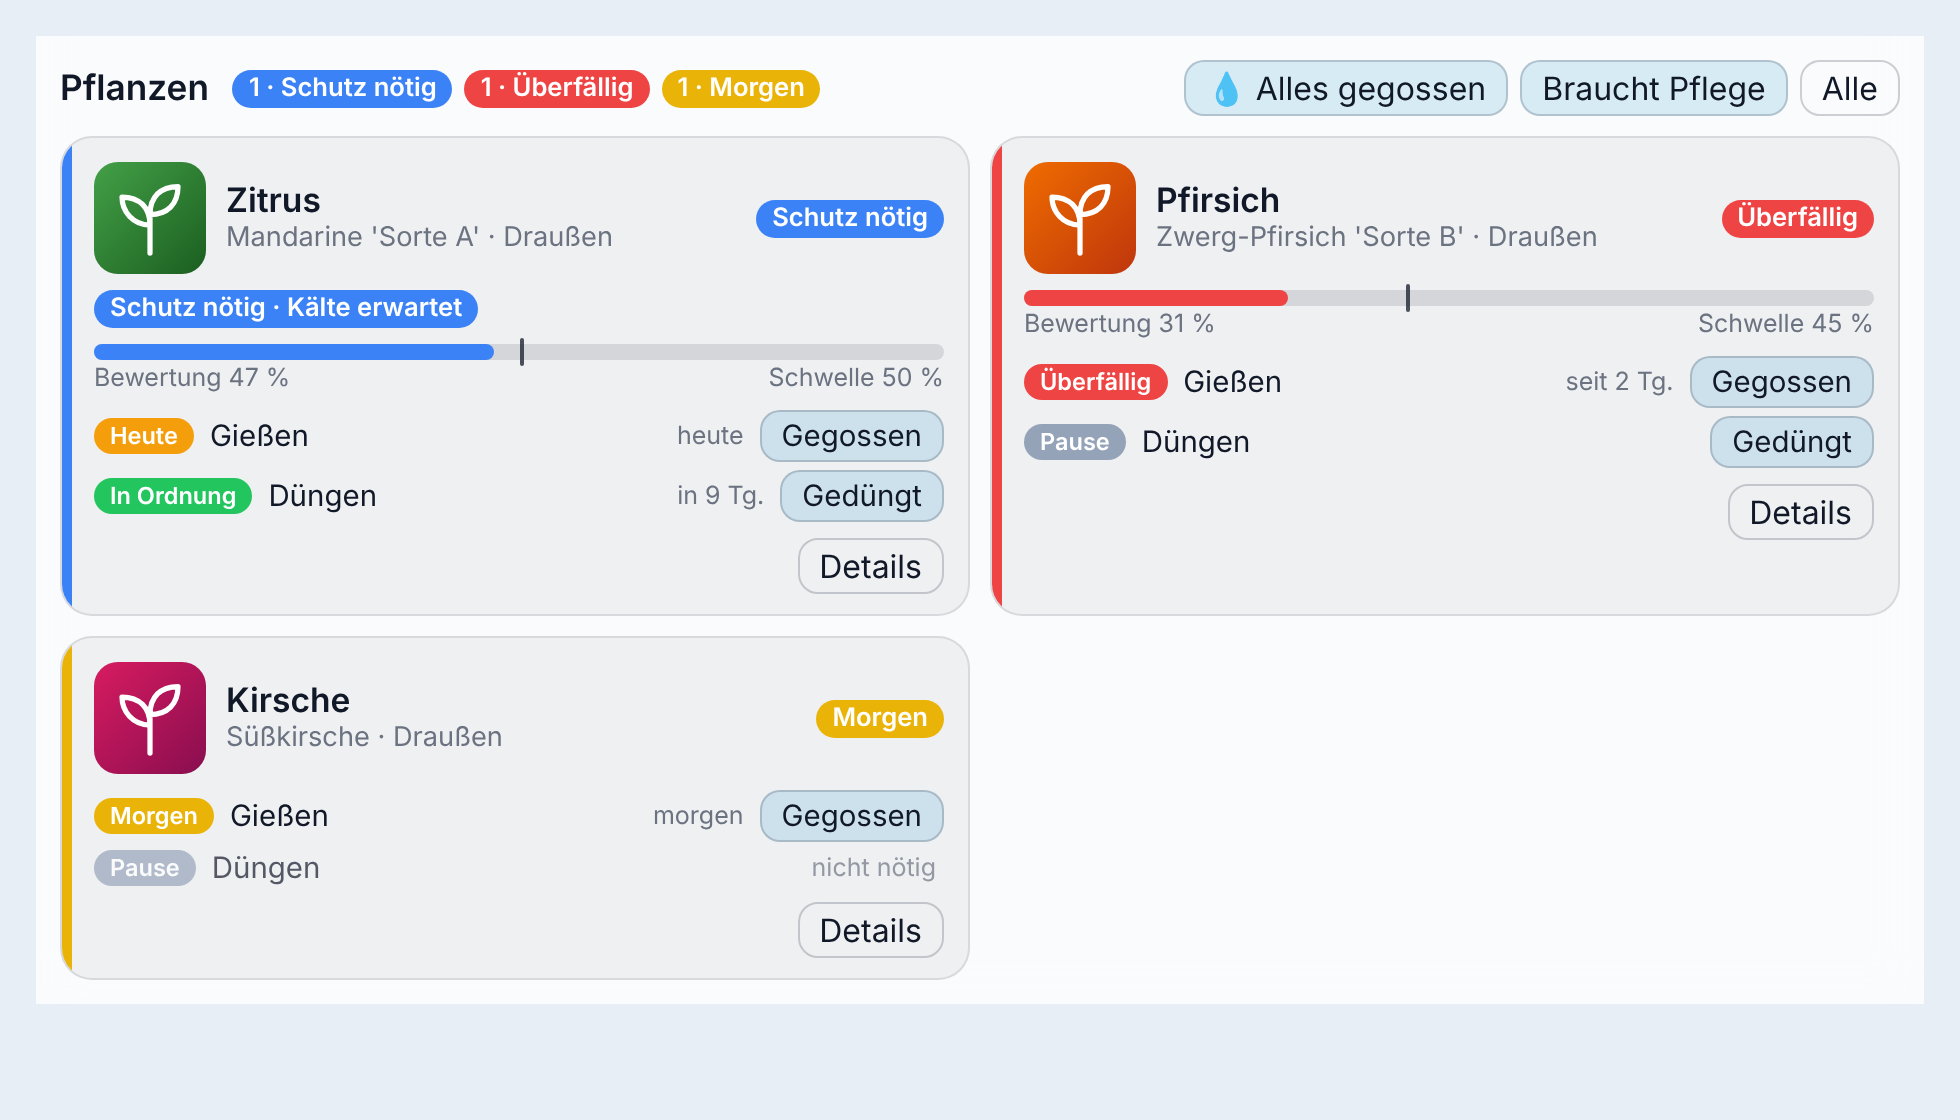
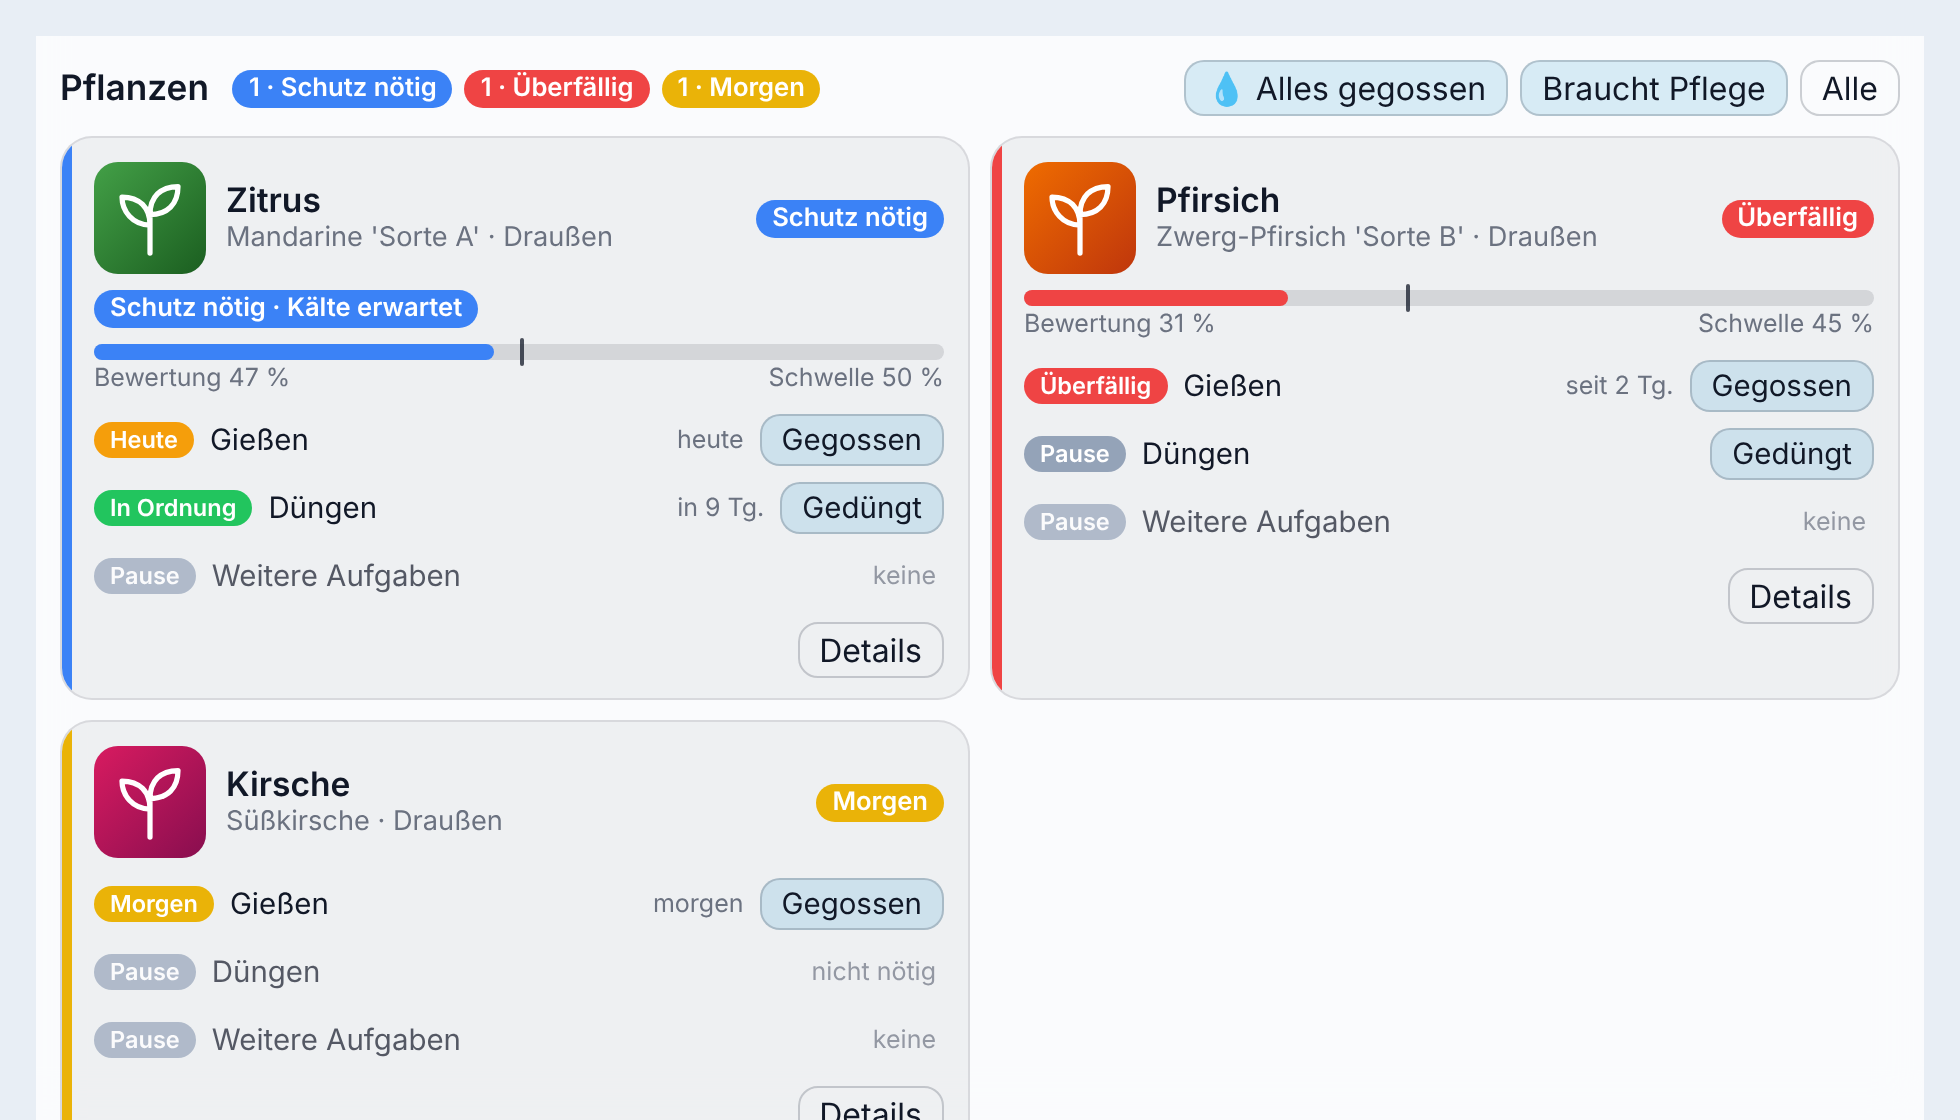
Card: three fixed task rows so plant cards are equally tall
Claude-Session: https://claude.ai/code/session_01XDKhdpbGErx8Smh2Ru9UdD

diff --git a/custom_components/rootine/frontend/rootine-card.js b/custom_components/rootine/frontend/rootine-card.js
@@ -17,7 +17,7 @@ const T = {
     reason: { cold_now: "zu kalt", cold_forecast: "Kälte erwartet", heat_now: "zu heiß",
       heat_forecast: "Hitze erwartet", drop: "Wert stark gefallen", stale: "meldet nicht",
       battery_low: "Batterie schwach" },
-    done: "Erledigt", noFertilize: "Düngen", noFertilizeHint: "nicht nötig", water: "Gegossen", fertilize: "Gedüngt", postpone: "Verschieben",
+    done: "Erledigt", noFertilize: "Düngen", noFertilizeHint: "nicht nötig", noOther: "Weitere Aufgaben", noOtherHint: "keine", water: "Gegossen", fertilize: "Gedüngt", postpone: "Verschieben",
     days: (n) => (n === 0 ? "heute" : n === 1 ? "morgen" : n < 0 ? `seit ${-n} Tg.` : `in ${n} Tg.`),
     details: "Details", close: "Schließen", edit: "Bearbeiten", save: "Speichern", cancel: "Abbrechen",
     photo: "Foto ändern", history: "Verlauf", undo: "Rückgängig", undone: "rückgängig",
@@ -45,7 +45,7 @@ const T = {
     reason: { cold_now: "too cold", cold_forecast: "cold expected", heat_now: "too hot",
       heat_forecast: "heat expected", drop: "value dropped", stale: "not reporting",
       battery_low: "battery low" },
-    done: "Done", noFertilize: "Fertilize", noFertilizeHint: "not needed", water: "Watered", fertilize: "Fertilized", postpone: "Postpone",
+    done: "Done", noFertilize: "Fertilize", noFertilizeHint: "not needed", noOther: "Other tasks", noOtherHint: "none", water: "Watered", fertilize: "Fertilized", postpone: "Postpone",
     days: (n) => (n === 0 ? "today" : n === 1 ? "tomorrow" : n < 0 ? `${-n}d overdue` : `in ${n}d`),
     details: "Details", close: "Close", edit: "Edit", save: "Save", cancel: "Cancel",
     photo: "Change photo", history: "History", undo: "Undo", undone: "undone",
@@ -130,7 +130,7 @@ ha-card { padding: 12px; overflow: hidden; background: var(--ha-card-background,
 .chip { display: inline-flex; align-items: center; gap: 4px; padding: 2px 8px; border-radius: 999px;
   font-size: .8em; font-weight: 600; color: #fff; white-space: nowrap; }
 .tasks { display: flex; flex-direction: column; gap: 4px; }
-.task { display: flex; align-items: center; gap: 8px; font-size: .92em; }
+.task { display: flex; align-items: center; gap: 8px; font-size: .92em; min-height: 30px; }
 .task .label { flex: 1; min-width: 3.5em; }
 .task.none { opacity: .7; }
 .task.none .when { margin-right: 4px; }
@@ -326,7 +326,9 @@ class RootineCard extends HTMLElement {
            <button class="${this._filter === "needs" ? "" : "ghost"}" data-filter="needs">${t.needs}</button>
            <button class="${this._filter === "all" ? "" : "ghost"}" data-filter="all">${t.all}</button></div></div>`
       : "";
+    const keep = this.shadowRoot.querySelector(".dialog")?.scrollTop || 0;
     this.shadowRoot.innerHTML = `<style>${STYLE}</style><ha-card class="${this._compact ? "compact" : ""}">${head}${body}</ha-card>${this._dialog ? this._dialogHtml() : ""}${this._confirm ? this._confirmHtml() : ""}`;
+    if (keep) { const dlg = this.shadowRoot.querySelector(".dialog"); if (dlg) dlg.scrollTop = keep; }
     this._bind();
     if (this._dialog) this._afterDialog();
     if (this._confirm) this._afterConfirm();
@@ -401,16 +403,25 @@ class RootineCard extends HTMLElement {
     const sub = [a.profile.common_name, a.profile.cultivar && `'${a.profile.cultivar}'`].filter(Boolean).join(" ");
     const warns = (a.warnings || []).map((w) =>
       `<span class="chip" style="background:${COLORS[w.key === "sensor_check" ? "check_sensor" : w.key]}" title="${esc(t.reason[w.reason] || "")}">${esc(t.warn[w.key])}${w.reason ? ` · ${esc(t.reason[w.reason] || w.reason)}` : ""}</span>`).join("");
-    const tasks = this._items(a).map((item) => `<div class="task">${this._chip(item.status)}<span class="label">${esc(item.name)}</span>
-        <span class="when">${esc(this._when(item))}</span><button data-done="${esc(item.key)}" data-plant="${esc(p.id)}">${esc(this._verb(item))}</button></div>`).join("");
-    const noFert = a.tasks?.fertilize ? "" : `<div class="task none"><span class="chip" style="background:${COLORS.rest}">${esc(t.status.rest || "")}</span><span class="label">${esc(t.noFertilize)}</span><span class="when">${esc(t.noFertilizeHint)}</span></div>`;
+    const row = (item, extra = "") => `<div class="task">${this._chip(item.status)}<span class="label">${esc(item.name)}${extra}</span>
+        <span class="when">${esc(this._when(item))}</span><button data-done="${esc(item.key)}" data-plant="${esc(p.id)}">${esc(this._verb(item))}</button></div>`;
+    const hint = (label, text) => `<div class="task none"><span class="chip" style="background:${COLORS.rest}">${esc(t.status.rest || "")}</span><span class="label">${esc(label)}</span><span class="when">${esc(text)}</span></div>`;
+    // every card has the same three rows so the cards in a grid are equally tall:
+    // watering, fertilizing (or a hint) and the most urgent other task (or a hint)
+    const items = this._items(a);
+    const isCore = (i) => !i.oneoff && (i.key === "water" || i.key === "fertilize");
+    const others = items.filter((i) => !isCore(i));
+    const urgent = others.length ? this._urgent(others) : null;
+    const tasks = items.filter((i) => !i.oneoff && i.key === "water").map((i) => row(i)).join("")
+      + (a.tasks?.fertilize ? row(items.find((i) => !i.oneoff && i.key === "fertilize")) : hint(t.noFertilize, t.noFertilizeHint))
+      + (urgent ? row(urgent, others.length > 1 ? ` <span class="muted">+${others.length - 1}</span>` : "") : hint(t.noOther, t.noOtherHint));
     const m = a.moisture;
     const bar = m && m.value != null
       ? `<div><div class="bar"><div class="fill" style="width:${Math.max(0, Math.min(100, m.value))}%"></div>${m.threshold != null ? `<div class="mark" style="left:${m.threshold}%" title="${esc(t.threshold)} ${m.threshold} %"></div>` : ""}</div>
          <div class="barlabel"><span>${esc(t.eval)} ${Math.round(m.value)} %</span><span>${m.threshold != null ? `${esc(t.threshold)} ${m.threshold} %` : ""}</span></div></div>` : "";
     return `<div class="plant" style="--accent:${COLORS[p.state] || COLORS.unknown}"><div class="top">${pic}<div class="title"><div class="name">${esc(p.name)}</div>
       <div class="sub">${esc(sub || "")} · ${esc(t[a.location] || a.location)}</div></div>${this._chip(p.state)}</div>
-      ${warns ? `<div class="warn">${warns}</div>` : ""}${bar}<div class="tasks">${tasks}${noFert}</div>
+      ${warns ? `<div class="warn">${warns}</div>` : ""}${bar}<div class="tasks">${tasks}</div>
       <div class="actions"><button class="ghost" data-details="${esc(p.id)}">${t.details}</button></div></div>`;
   }
 

diff --git a/custom_components/rootine/const.py b/custom_components/rootine/const.py
@@ -3,7 +3,7 @@
 from __future__ import annotations
 
 DOMAIN = "rootine"
-VERSION = "1.2.2"  # keep in sync with manifest.json
+VERSION = "1.2.3"  # keep in sync with manifest.json
 SUBENTRY_PLANT = "plant"
 
 # Haupteintrag (Optionen)

diff --git a/CHANGELOG.md b/CHANGELOG.md
@@ -1,5 +1,12 @@
 # Changelog
 
+## 1.2.3
+
+**Geändert**
+
+- Jede Pflanzenkarte zeigt genau drei Aufgabenzeilen: Gießen, Düngen und die dringendste weitere Aufgabe (mit „+n“, wenn es mehr gibt). Gibt es nichts, steht dort ein gedimmter Hinweis. So sind alle Karten im Raster gleich hoch, auch bei Pflanzen mit vielen Aufgaben.
+- Der Details-Dialog behält beim Nachladen von Verlauf und Diagramm seine Scrollposition.
+
 ## 1.2.2
 
 **Geändert**
